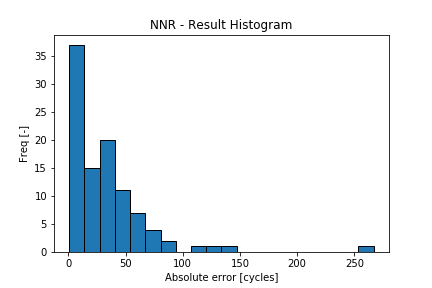
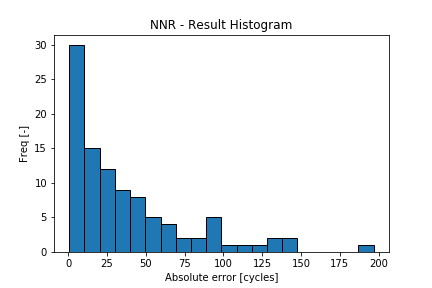
Score fix

diff --git a/README.md b/README.md
@@ -19,9 +19,9 @@ I chose three different metrics to assess the prediction for each model. Mean sq
 
 | Metric                     | Neural Network | SVM   |
 | -------------------------- |:--------------:| -----:|
-| MSE                        | 4.92           | 3.54  |
-| Median absolute difference | 24.54          | 22.96 |
-| Score                      | 3.89e9         | 659.8 |
+| MSE                        | 5.39           | 3.54  |
+| Median absolute difference | 27.86          | 22.96 |
+| Score                      | 3.56e6         | 677.2 |
 
 ![Example](img/scatter_nnr.png)
 ![Example](img/scatter_svm.png)
